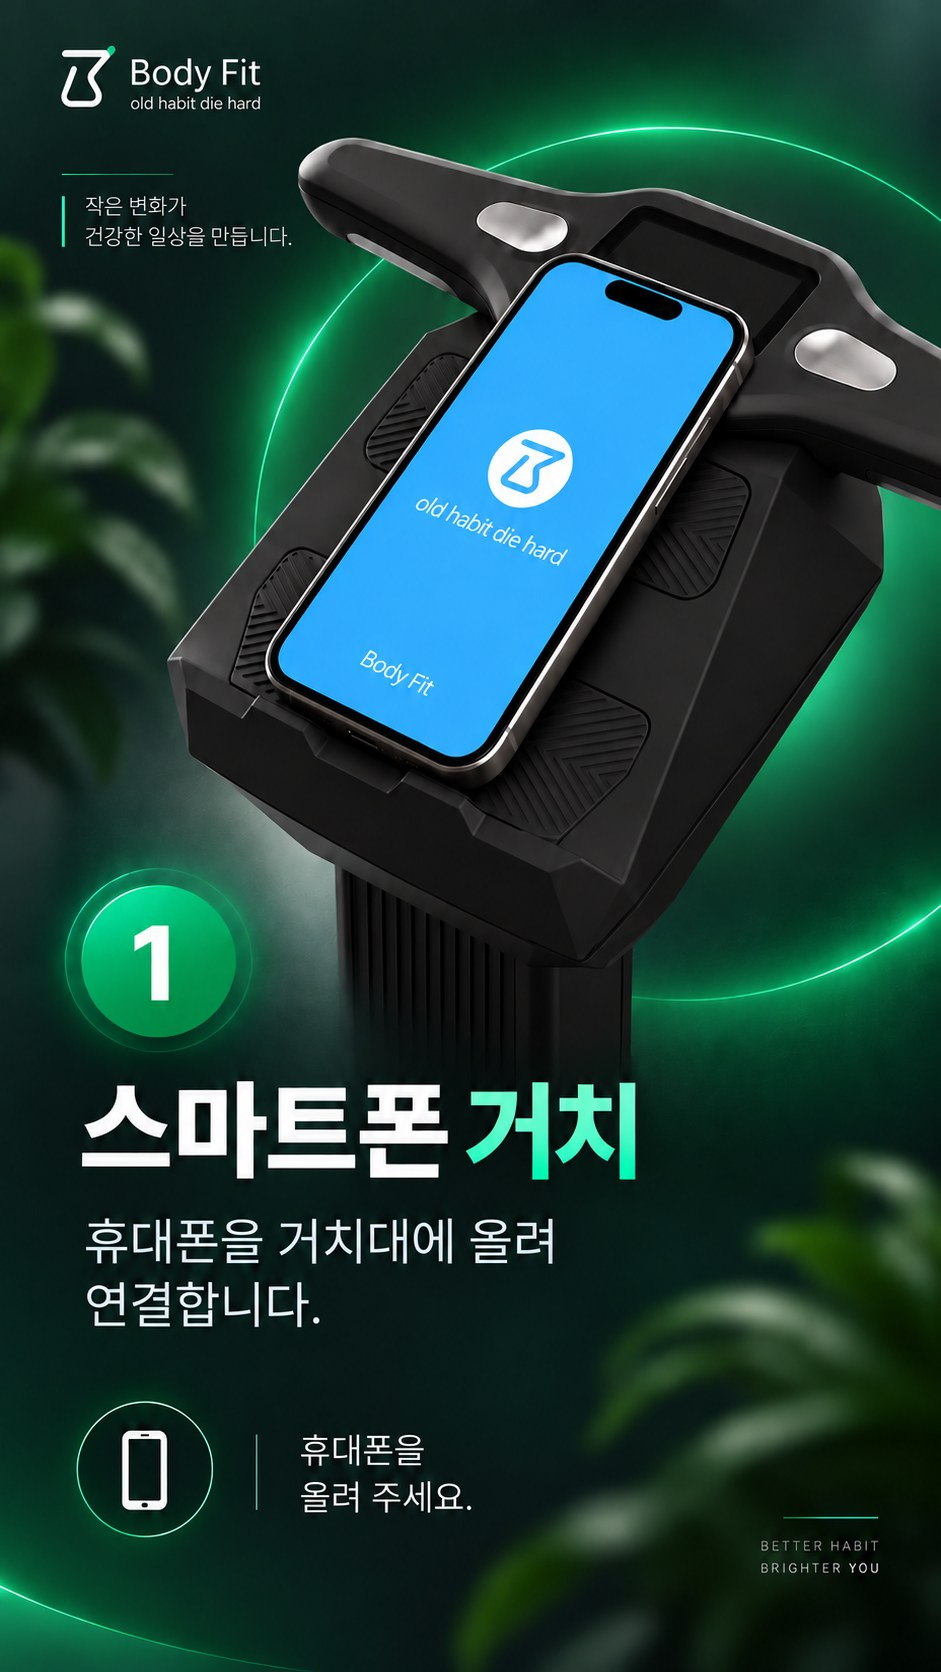
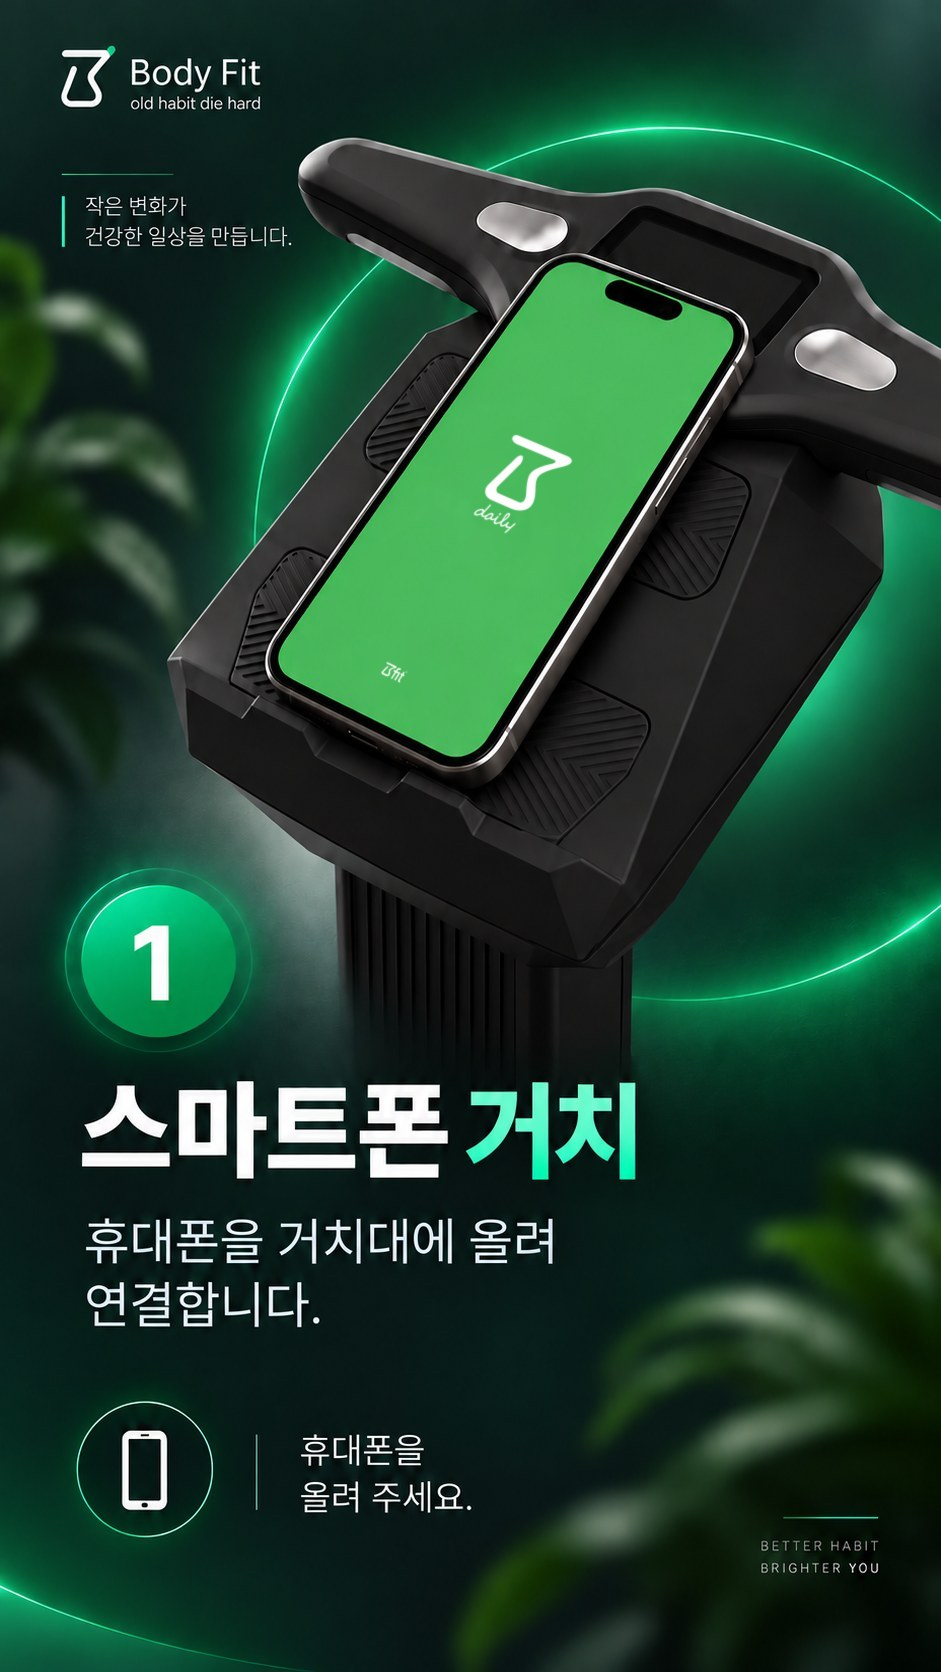
fix(home): 메인 사진 · 사용법 거치 그림 폰 화면을 초록 스플래시로 교체
- 그림 속 파란 화면이 옛 브랜드라 지금 앱 첫 화면과 어긋남
- 폰 · 유리 반사 · 노치는 원본 유지, 화면만 앱과 같은 방식으로 합성
- 메인 사진 손잡이 위 화면은 실제 제품처럼 꺼진 검정 화면으로 변경
- 바뀐 그림이 바로 보이도록 그림 주소에 버전 표시 추가

Changed region(s): [[0.2774, 0.1555, 0.8013, 0.4665]]

diff --git a/index.html b/index.html
@@ -65,7 +65,7 @@ window.__resources = {
   <section id="top" style="padding:0 0 clamp(28px,3.5vw,48px)">
     <div class="hero">
       <div style="{{ heroFrameStyle }}">
-        <img src="images/bfit-hero-bodyfit-home.jpg" width="1920" height="1080" fetchpriority="high" alt="밝은 실내에서 바디핏 옆에 서서 휴대폰으로 측정 결과를 확인하는 여성" data-i18n-alt="top_heroAlt" style="{{ heroImgStyle }}">
+        <img src="images/bfit-hero-bodyfit-home.jpg?v=2" width="1920" height="1080" fetchpriority="high" alt="밝은 실내에서 바디핏 옆에 서서 휴대폰으로 측정 결과를 확인하는 여성" data-i18n-alt="top_heroAlt" style="{{ heroImgStyle }}">
       </div>
       <span class="hero-chip" aria-hidden="true" data-i18n="top_heroChip">바디핏 신체 구성 측정기</span>
       <div class="hero-copy">
@@ -120,7 +120,7 @@ window.__resources = {
           <p style="margin:0 0 clamp(22px,3vw,32px);font-size:clamp(17px,1.9vw,23px);line-height:1.7;font-weight:400;max-width:32ch;text-wrap:pretty" data-i18n="bodyfit_subtitle">몸을 측정하는 기기가 아니라, 측정한 데이터를 다음 행동으로 연결하는 서비스</p>
           <div id="bodyfit-slideshow" style="background:var(--surface-card);border-radius:20px;padding:clamp(16px,2vw,22px)">
             <div id="bfs-top-image" style="position:relative;aspect-ratio:941/1672;background:#13201B;border-radius:12px;overflow:hidden">
-              <img id="bht-main-img" src="images/bodyfit-howto/1-smartphone-mount.jpg" alt="스마트폰 거치" style="width:100%;height:100%;object-fit:cover;display:block">
+              <img id="bht-main-img" src="images/bodyfit-howto/1-smartphone-mount.jpg?v=2" alt="스마트폰 거치" style="width:100%;height:100%;object-fit:cover;display:block">
               <button type="button" id="bht-prev" aria-label="이전 이미지" style="position:absolute;left:10px;top:50%;transform:translateY(-50%);width:36px;height:36px;border:0;border-radius:999px;background:rgba(25,31,29,0.55);font-size:16px;line-height:1;cursor:pointer;display:flex;align-items:center;justify-content:center;color:var(--text-on-accent)">‹</button>
               <button type="button" id="bht-next" aria-label="다음 이미지" style="position:absolute;right:10px;top:50%;transform:translateY(-50%);width:36px;height:36px;border:0;border-radius:999px;background:rgba(25,31,29,0.55);font-size:16px;line-height:1;cursor:pointer;display:flex;align-items:center;justify-content:center;color:var(--text-on-accent)">›</button>
               <div id="bht-dots" style="position:absolute;left:0;right:0;bottom:16px;display:flex;justify-content:center;gap:7px">
@@ -512,7 +512,7 @@ window.__resources = {
   var bfsIndex = 0;
 
   var bhtSlides = [
-    { src: 'images/bodyfit-howto/1-smartphone-mount.jpg', label: '스마트폰 거치' },
+    { src: 'images/bodyfit-howto/1-smartphone-mount.jpg?v=2', label: '스마트폰 거치' },
     { src: 'images/bodyfit-howto/2-step-on.jpg', label: '올라서 준비' },
     { src: 'images/bodyfit-howto/3-check-record.jpg', label: '기록 확인' },
     { src: 'images/bodyfit-howto/4-ai-suggestion.jpg', label: 'AI 제안' },
